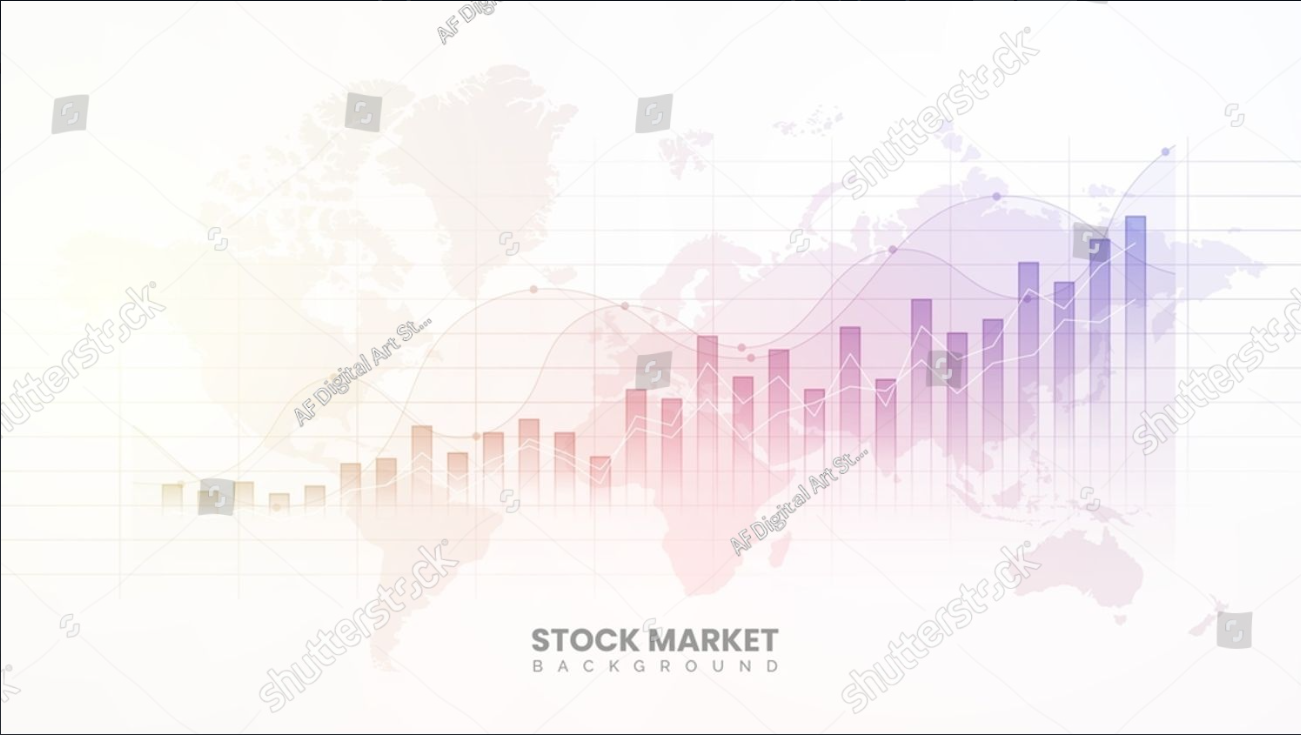
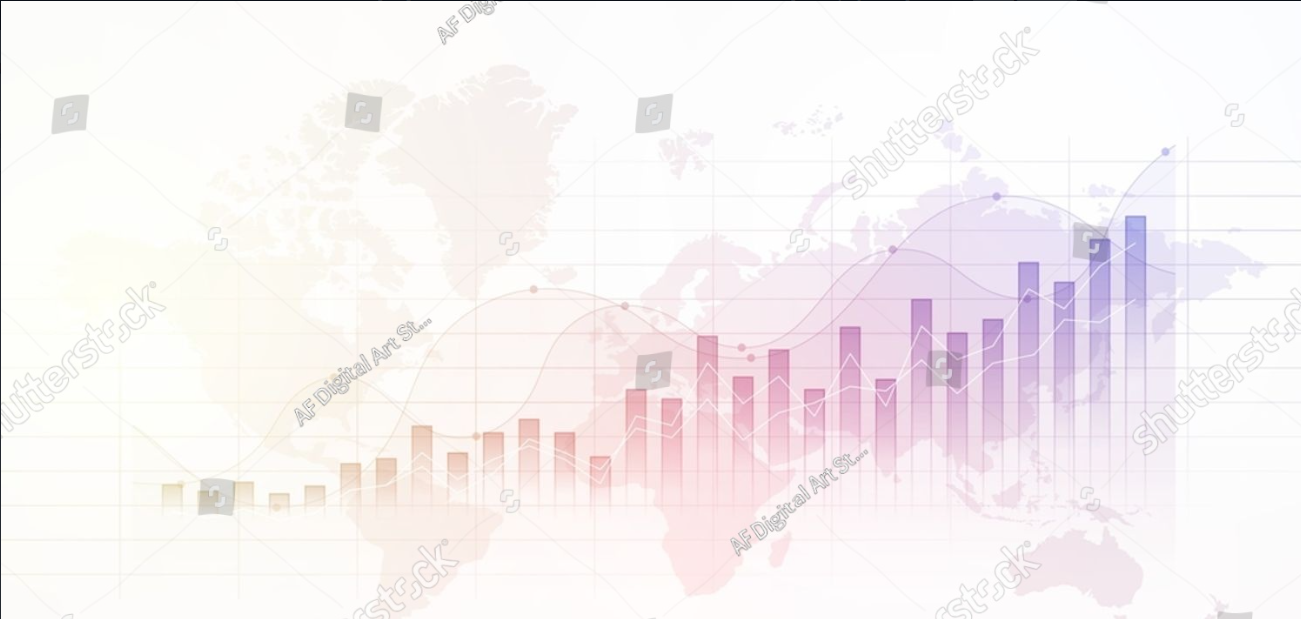
Enhancements/New UI implementation 1.handled callback for onpressed button for each of different card- made chnages in custom card and dashboard2.dart files 2.Cropped background images to removed any text 3.changed background images on cards 4.corrected and added filename in yml file

diff --git a/lib/Dashboards/Dashboard2.dart b/lib/Dashboards/Dashboard2.dart
@@ -16,6 +16,7 @@ import 'package:my_flutter_app/Dashboards/OTStaffDashboard.dart';
 import 'package:my_flutter_app/Dashboards/ProcedureDashboard.dart';
 import 'package:my_flutter_app/Dashboards/PatientDashboard.dart';
 import 'package:my_flutter_app/config/customThemes/MyAppBar.dart';
+import 'package:my_flutter_app/config/customThemes/elevatedButtonTheme.dart';
 
 class Dashboard2 extends StatefulWidget {
   int otCount;
@@ -56,7 +57,7 @@ class _DashboardState extends State<Dashboard2> {
   //new code
   static const double leftMargin = 220;
   static const double rightMargin = 120;
-  static const double gap = 15;
+  static const double gap_for_calender = 15;
   String displayText1 = 'Operations Dashboard';
   String displayText2 = 'Select the  dates to view customised data';
   String calenderHintText = 'Select the Date';
@@ -86,7 +87,49 @@ class _DashboardState extends State<Dashboard2> {
   }
 
   Widget _buildInfoCard(String title, String data, String imagePath) {
-    return CustomCard(data: data, title: title, imagePath: imagePath);
+    return CustomCard(
+        data: data,
+        title: title,
+        imagePath: imagePath,
+        onPressed: () {
+          if (title == 'OT') {
+            Navigator.push(
+                context,
+                MaterialPageRoute(
+                    builder: (context) => OTDashboard(selectedFromDate :selectedFromDate, selectedToDate:selectedToDate)));
+          }
+          else if (title == 'Doctors') {
+            Navigator.push(
+                context,
+                MaterialPageRoute(
+                    builder: (context) => DoctorDashboard(selectedFromDate :selectedFromDate, selectedToDate:selectedToDate)));
+          }
+          else if (title == 'Departments') {
+            Navigator.push(
+                context,
+                MaterialPageRoute(
+                    builder: (context) => DepartmentDashboard(selectedFromDate :selectedFromDate, selectedToDate:selectedToDate)));
+          }
+          else if (title == 'Procedures') {
+            Navigator.push(
+                context,
+                MaterialPageRoute(
+                    builder: (context) => ProcedureDashboard(selectedFromDate :selectedFromDate, selectedToDate:selectedToDate)));
+          }
+          else if (title == 'Patients') {
+            Navigator.push(
+                context,
+                MaterialPageRoute(
+                    builder: (context) => PatientDashboard(selectedFromDate :selectedFromDate, selectedToDate:selectedToDate)));
+          }
+          else if (title == 'OT Staff') {
+            Navigator.push(
+                context,
+                MaterialPageRoute(
+                    builder: (context) => OTStaffDashboard(selectedFromDate :selectedFromDate, selectedToDate:selectedToDate)));
+          }
+        },
+    );
   }
 
   @override
@@ -121,7 +164,7 @@ class _DashboardState extends State<Dashboard2> {
                   'From Date',
                   style: TextStyle(fontSize: 18, fontWeight: FontWeight.bold,color: Colors.blueGrey),
                 ),
-                SizedBox(width: 15),
+                SizedBox(width: gap_for_calender),
                 SizedBox(
                   width: 180,
                   height: 40,
@@ -140,12 +183,24 @@ class _DashboardState extends State<Dashboard2> {
                     ),
                   ),
                 ),
-                SizedBox(width: 400),
+                SizedBox(width: gap_for_calender),
+                Container(
+                  decoration: BoxDecoration(
+                    shape: BoxShape.circle, // Circular shape
+                    color: Colors.blueGrey, // Lavender background color
+                  ),
+                  child: IconButton(
+                    onPressed: () => _selectFromDate(context),
+                    icon: Icon(Icons.calendar_month_outlined),
+                    color: Colors.white,
+                  ),
+                ),
+                SizedBox(width: 265),
                 Text(
                   'To Date',
                   style: TextStyle(fontSize: 18, fontWeight: FontWeight.bold,color: Colors.blueGrey),
                 ),
-                SizedBox(width: 15),
+                SizedBox(width: gap_for_calender),
                 SizedBox(
                   width: 180,
                   height: 40,
@@ -162,6 +217,41 @@ class _DashboardState extends State<Dashboard2> {
                       //constraints: BoxConstraints.tightFor(),
                       fillColor: Colors.grey[50],
                     ),
+                  ),
+                ),
+                SizedBox(width: gap_for_calender),
+                Container(
+                  decoration: BoxDecoration(
+                    shape: BoxShape.circle, // Circular shape
+                    color: Colors.blueGrey, // Lavender background color
+                  ),
+                  child: IconButton(
+                    onPressed: () => _selectToDate(context),
+                    icon: Icon(Icons.calendar_month_outlined),
+                    color: Colors.white,
+                  ),
+                ),
+
+                SizedBox(width: 30),
+                Container(
+                  width: 150,
+                  child: ElevatedButton(
+                      style: MyElevatedButtonTheme.elevatedButtonTheme2.style,
+                      child: const Text('Apply',
+                        style: TextStyle(
+                            color: Colors.white,
+                            fontWeight: FontWeight.w500,
+                            fontSize: 20),),
+                      onPressed: (){
+                        _getOTCount(selectedFromDate, selectedToDate);
+                        _getDoctorCount(selectedFromDate,selectedToDate);
+                        _getDepartmentCount(selectedFromDate,selectedToDate);
+                        _getProcedureCount(selectedFromDate,selectedToDate);
+                        _getPatientCount(selectedFromDate,selectedToDate);
+                        _getOTStaffCount(selectedFromDate,selectedToDate);
+
+                      }
+
                   ),
                 ),
               ],
@@ -185,8 +275,8 @@ class _DashboardState extends State<Dashboard2> {
                           runSpacing: 30,
                           alignment: WrapAlignment.center,
                           children: [
-                            _buildInfoCard('OT', otCount.toString(),'assets/images/Dashboard_background-light.png'),
-                            _buildInfoCard('Doctors', doctorsCount.toString(),'assets/images/Dashboard_background-light-02.png'),
+                            _buildInfoCard('OT', otCount.toString(),'assets/images/Dashboard_background-light-09.png'),
+                            _buildInfoCard('Doctors', doctorsCount.toString(),'assets/images/Dashboard_background-light-08.png'),
                             _buildInfoCard('Departments', departmentCount.toString(),'assets/images/Dashboard_background-light-04.png'),
                             // _buildInfoCard('Procedures','24', 'assets/images/Dashboard_background-light-07.png'),
                             // _buildInfoCard('Patients', '17','assets/images/Dashboard_background-light-06.png'),
@@ -208,8 +298,8 @@ class _DashboardState extends State<Dashboard2> {
                           children: [
                 
                             _buildInfoCard('Procedures',procedureCount.toString(), 'assets/images/Dashboard_background-light-07.png'),
-                            _buildInfoCard('Patients', patientCount.toString(),'assets/images/Dashboard_background-light-06.png'),
-                            _buildInfoCard('OT Staff', otStaffCount.toString(),'assets/images/Dashboard_background-light-05.png'),
+                            _buildInfoCard('Patients', patientCount.toString(),'assets/images/Dashboard_background-light-02.png'),
+                            _buildInfoCard('OT Staff', otStaffCount.toString(),'assets/images/Dashboard_background-light-06.png'),
                           ],
                         ),
                       ],
@@ -226,51 +316,51 @@ class _DashboardState extends State<Dashboard2> {
     );
   }
 
-  // Future<void> _selectFromDate(BuildContext context) async {
-  //   final DateTime? picked = await showDatePicker(
-  //     context: context,
-  //     initialDate: DateTime.parse(widget.dateRangeMap['earliest date']!),
-  //     firstDate: DateTime.parse(widget.dateRangeMap['earliest date']!), // Adjust the first and last date according to your needs1
-  //     lastDate: DateTime.now(),
-  //   );
-  //
-  //   if (picked != null && picked != selectedFromDate) {
-  //     setState(() {
-  //       selectedFromDate = picked;
-  //       String date = "${selectedFromDate.toLocal()}".split(' ')[0];
-  //       fromDateController?.text = date;
-  //     });
-  //   }else if (picked == null) {
-  //     setState(() {
-  //       selectedFromDate = DateTime.parse(widget.dateRangeMap['earliest date']!); // Set selectedFromDate to an initial value
-  //       fromDateController?.text = '${widget.dateRangeMap['earliest date']}'; // Set the text field to empty
-  //     });
-  //   }
-  // }
-  //
-  // Future<void> _selectToDate(BuildContext context) async {
-  //   final DateTime? picked = await showDatePicker(
-  //     context: context,
-  //     initialDate: DateTime.now(),
-  //     firstDate: DateTime.parse(widget.dateRangeMap['earliest date']!),
-  //     lastDate: DateTime.now(),
-  //   );
-  //
-  //   if (picked != null && picked != selectedToDate) {
-  //     setState(() {
-  //       selectedToDate = picked;
-  //       String date = "${selectedToDate.toLocal()}".split(' ')[0];
-  //       toDateController?.text = date;
-  //     });
-  //   }else if (picked == null) {
-  //     setState(() {
-  //       selectedToDate = DateTime.parse(widget.dateRangeMap['latest date']!);
-  //       toDateController?.text = '${widget.dateRangeMap['latest date']}';
-  //     });
-  //   }
-  //
-  //   //_setValues(context);
-  // }
+  Future<void> _selectFromDate(BuildContext context) async {
+    final DateTime? picked = await showDatePicker(
+      context: context,
+      initialDate: DateTime.parse(widget.dateRangeMap['earliest date']!),
+      firstDate: DateTime.parse(widget.dateRangeMap['earliest date']!), // Adjust the first and last date according to your needs1
+      lastDate: DateTime.now(),
+    );
+
+    if (picked != null && picked != selectedFromDate) {
+      setState(() {
+        selectedFromDate = picked;
+        String date = "${selectedFromDate.toLocal()}".split(' ')[0];
+        fromDateController?.text = date;
+      });
+    }else if (picked == null) {
+      setState(() {
+        selectedFromDate = DateTime.parse(widget.dateRangeMap['earliest date']!); // Set selectedFromDate to an initial value
+        fromDateController?.text = '${widget.dateRangeMap['earliest date']}'; // Set the text field to empty
+      });
+    }
+  }
+
+  Future<void> _selectToDate(BuildContext context) async {
+    final DateTime? picked = await showDatePicker(
+      context: context,
+      initialDate: DateTime.now(),
+      firstDate: DateTime.parse(widget.dateRangeMap['earliest date']!),
+      lastDate: DateTime.now(),
+    );
+
+    if (picked != null && picked != selectedToDate) {
+      setState(() {
+        selectedToDate = picked;
+        String date = "${selectedToDate.toLocal()}".split(' ')[0];
+        toDateController?.text = date;
+      });
+    }else if (picked == null) {
+      setState(() {
+        selectedToDate = DateTime.parse(widget.dateRangeMap['latest date']!);
+        toDateController?.text = '${widget.dateRangeMap['latest date']}';
+      });
+    }
+
+    //_setValues(context);
+  }
 
   void _getOTCount(DateTime selectedFromDate, DateTime selectedToDate) async {
     String apiUrl = '$baseUrl/ot-count/';

diff --git a/lib/Dashboards/CustomCard.dart b/lib/Dashboards/CustomCard.dart
@@ -9,11 +9,13 @@ class CustomCard extends StatelessWidget {
   final double elevation;
   final double borderRadius;
   final Color shadowColor;
+  final VoidCallback onPressed;
 
   CustomCard({
     required this.data,
     required this.title,
     required this.imagePath,
+    required this.onPressed,
     this.imageOpacity = 0.4,
     this.elevation = 3.0,
     this.borderRadius = 10.0,
@@ -86,9 +88,7 @@ class CustomCard extends StatelessWidget {
                 //   ),
                 // ),
                 child: ElevatedButton(
-                  onPressed: () {
-
-                  },
+                  onPressed: onPressed,
                     style: MyElevatedButtonTheme.elevatedButtonTheme2.style,
                     child: Text('View Details',style: TextStyle(color: Colors.white),),),
               ),
